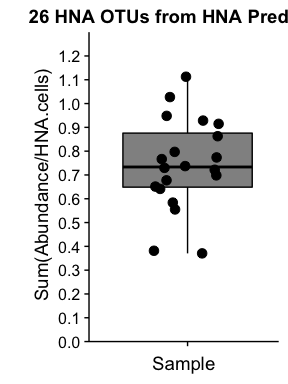
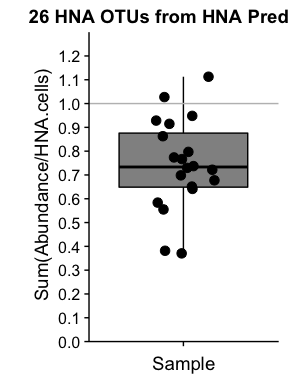
Trying to fix bug with calculations but to no avail

diff --git a/Final/OutliersRemoved/OTU_analysis.md b/Final/OutliersRemoved/OTU_analysis.md
@@ -2,9 +2,9 @@
 -   [Load in the data](#load-in-the-data)
 -   [Based on 1):](#based-on-1)
 -   [Proportion of HNA Pool?](#proportion-of-hna-pool)
-    -   [WHAT PROPORTION OF THE HNA POOL IS MADE UP BY THE 26 OTUs?](#what-proportion-of-the-hna-pool-is-made-up-by-the-26-otus)
+    -   [What proportion of the HNA pool is taken up by the 26 OTUs?](#what-proportion-of-the-hna-pool-is-taken-up-by-the-26-otus)
 -   [Sum OTUs vs HNA](#sum-otus-vs-hna)
--   [Regressions with the 3 OTUs pulled out in both analyses](#regressions-with-the-3-otus-pulled-out-in-both-analyses)
+-   [Linear Regressions with the 3 OTUs pulled out in both analyses](#linear-regressions-with-the-3-otus-pulled-out-in-both-analyses)
 
 ### Load the necessary libraries and set colors
 
@@ -72,15 +72,14 @@ Based on 1):
 
 ``` r
 # Vector of 3 OTUs pulled out by Peter's model in the above file 
-OTUs_26 <- read.csv("HNAscores_prod_outliersremoved_abun0.0075_Thr0.63.csv", header = FALSE) %>%
-  dplyr::rename(OTU = V1,
-                Corr = V2)
+OTUs_26 <- read.csv("HNAscores_prod_outliersremoved_abun0.0075_Thr0.63.csv", header = FALSE) %>%   # Gather the 26 OTUs that peter pulled out in his analysis 
+  dplyr::rename(OTU = V1, Corr = V2)                                                               # Rename columns to be more intuitive
 
+# Make a vector of OTU names to pull them out of the larger dataset
 otu_names_26 <- as.character(OTUs_26$OTU)
 
 # What is the taxonomy of these 3 OTUs?
-tax %>%
-  dplyr::filter(OTU %in% otu_names_26)
+tax %>% dplyr::filter(OTU %in% otu_names_26)
 ```
 
     ##          OTU  Kingdom                      Phylum                        Class                        Order                       Family                        Genus      Species
@@ -113,27 +112,25 @@ tax %>%
 
 ``` r
 # Put all the data together into one dataframe with only the important OTUs
-AbsAbund_OTUs_26 <-  absolute_otu %>%
-  dplyr::select(one_of(otu_names_26)) %>%     ### Use only 26 OTUs
-  tibble::rownames_to_column() %>%
-  dplyr::rename(Sample_16S = rowname) %>%  
-  dplyr::left_join(productivity, by = "Sample_16S") %>%
-  dplyr::filter(Lake == "Muskegon" & Depth == "Surface") %>%
-  dplyr::select(-c(Platform, samples, Lake)) %>%
-  mutate(Site = factor(Site, levels = c("MOT", "MDP", "MBR", "MIN"))) %>%
-  gather("OTU", "Abs_Abund", 2:27) %>%     #### Gather only columns 2:12
-  dplyr::left_join(tax, by = "OTU") %>%
-  filter(!is.na(Sample_16S)) %>%
-  mutate(OTU_fraction_HNA = Abs_Abund/HNA.cells,
-         OTU = factor(OTU, levels = OTU[order(Phylum)])) %>%
-  dplyr::filter(tot_bacprod < 90) # REMOVE OUTLIERS TO MATCH PETER'S ANALYSIS
+AbsAbund_OTUs_26 <-  absolute_otu %>%                                            # Start with the OTU table with absolute abundance counts 
+  dplyr::select(one_of(otu_names_26)) %>%                                        # Pull out only the relevant 26 OTUs from the above OTU table
+  tibble::rownames_to_column() %>%                                               # Change the sample names to be a column
+  dplyr::rename(Sample_16S = rowname) %>%                                        # Rename the sample names column to match up with other data frames
+  dplyr::left_join(productivity, by = "Sample_16S") %>%                          # Join 26 OTU absolute abundance counts with rest of metadata 
+  dplyr::filter(Lake == "Muskegon" & Depth == "Surface") %>%                     # Filter out samples that have productivity data (Muskegon & Surface)
+  dplyr::select(-c(Platform, samples, Lake)) %>%                                 # Remove unnecessary columns 
+  mutate(Site = factor(Site, levels = c("MOT", "MDP", "MBR", "MIN"))) %>%        # Fix order of factor for lake station
+  gather("OTU", "Abs_Abund", 2:27) %>%                                           # Gather only columns 2:27, which represent OTU abs abundance counts, and put it in *long* format
+  dplyr::left_join(tax, by = "OTU") %>%                                          # Add the taxonomic information for each OTU
+  mutate(OTU_fraction_HNA = Abs_Abund/HNA.cells,                                 # Calculate the fraction that each individual OTU takes up within the HNA pool for each sample
+         OTU = factor(OTU, levels = OTU[order(Phylum)])) %>%                     # Order the OTU by Phylum (alphabetical)
+  dplyr::filter(tot_bacprod < 90)                                                # Remove outliers to match peter's analysis
 
 
-# Plot the absolute abundance data 
+# Plot the absolute abundance data for each OTU
 ggplot(AbsAbund_OTUs_26, aes(x = reorder(OTU, Phylum), y = Abs_Abund, fill = Phylum, color = Phylum)) +
   geom_boxplot(alpha = 0.5, outlier.shape = NA) +
   geom_jitter(width = 0.2, size = 3) +
-  #scale_y_continuous(expand = c(0,0), limits = c(0, 2.5e+5)) +
   scale_color_manual(values = colors) +
   scale_fill_manual(values = colors) +
   ylab("log10(Abundance)") +
@@ -150,10 +147,10 @@ ggplot(AbsAbund_OTUs_26, aes(x = reorder(OTU, Phylum), y = Abs_Abund, fill = Phy
 <img src="OTU_analysis_files/figure-markdown_github/HNAotus-26-1.png" style="display: block; margin: auto;" />
 
 ``` r
+# Plot the fraction of the HNA pool for each OTU
 ggplot(AbsAbund_OTUs_26, aes(x = reorder(OTU, Phylum), y = OTU_fraction_HNA, fill = Phylum, color = Phylum)) +
   geom_boxplot(alpha = 0.5, outlier.shape = NA) +
   geom_jitter(width = 0.2, size = 3) +
-  #scale_y_continuous(expand = c(0,0), limits = c(0, 2.5e+5)) +
   scale_color_manual(values = colors) +
   scale_fill_manual(values = colors) +
   ylab("Fraction of HNA Cells") +
@@ -172,27 +169,29 @@ ggplot(AbsAbund_OTUs_26, aes(x = reorder(OTU, Phylum), y = OTU_fraction_HNA, fil
 Proportion of HNA Pool?
 =======================
 
-### WHAT PROPORTION OF THE HNA POOL IS MADE UP BY THE 26 OTUs?
+### What proportion of the HNA pool is taken up by the 26 OTUs?
 
 ``` r
 # Calculate the sum of the HNA pool, the max of the HNA pool, and the median/mean
-frac_HNA_stats_AbsAbund_OTUs_26 <- AbsAbund_OTUs_26 %>%
-  dplyr::select(Sample_16S, OTU, OTU_fraction_HNA, Abs_Abund, HNA.cells) %>%
-  group_by(Sample_16S) %>%
-  summarise(sum_fracHNA = sum(OTU_fraction_HNA), 
-            max_fracHNA = max(OTU_fraction_HNA), 
-            median_fracHNA = median(OTU_fraction_HNA), 
-            mean_fracHNA = mean(OTU_fraction_HNA),
-            sum_abs_abund = sum(Abs_Abund)) %>%
-  mutate(All_Samples = "AllSamps")
+frac_HNA_stats_AbsAbund_OTUs_26 <- AbsAbund_OTUs_26 %>%                        # Take the dataframe from above
+  dplyr::select(Sample_16S, OTU, OTU_fraction_HNA, Abs_Abund, HNA.cells) %>%   # Select only relevant columns
+  group_by(Sample_16S) %>%                                                     # Make a data frame for each of the individual samples
+  summarise(sum_fracHNA = sum(OTU_fraction_HNA),                               # Calculate the sum of the fraction of each OTU from the HNA pool (total HNA pool represented by each OTU)
+            max_fracHNA = max(OTU_fraction_HNA),                               # Calculate the max the the line above
+            median_fracHNA = median(OTU_fraction_HNA),                         # Calculate the median of 2 lines above
+            mean_fracHNA = mean(OTU_fraction_HNA),                             # Calculate the mean of 3 lines above
+            sum_abs_abund = sum(Abs_Abund)) %>%                                # What's the sum of the absolute abundance of the 26 OTUs within each sample? 
+  mutate(All_Samples = "AllSamps_26_OTUs")
 
-# Plot it
+
+# Plot the variation in the sum of the HNA fraction with points/boxplot
 ggplot(frac_HNA_stats_AbsAbund_OTUs_26, aes(y = sum_fracHNA, x = All_Samples, 
                                             color = "All_Samples", fill = "All_Samples")) +
   geom_boxplot(alpha = 0.5) +   geom_point(size = 3, position = position_jitterdodge()) +
   ggtitle("26 HNA OTUs from HNA Prediction") + 
   xlab("All Samples") + scale_color_manual(values = "black") +
   scale_fill_manual(values = "black") +
+  geom_abline(intercept = 1, slope = 0, color = "grey") +                                   # Draw a line at 1 
   scale_y_continuous(expand = c(0,0),limits = c(0, 1.3), 
                      breaks = seq(0, 1.2, by = 0.1)) +
   ylab("\n Sum(Abundance/HNA.cells)") + xlab("Sample") +
@@ -205,49 +204,22 @@ Sum OTUs vs HNA
 ===============
 
 ``` r
-all_data <- inner_join(frac_HNA_stats_AbsAbund_OTUs_26, productivity, by = "Sample_16S") %>%
-  mutate(pred_totHNA_counts = sum_fracHNA*HNA.cells)
-  
+all_data <- inner_join(frac_HNA_stats_AbsAbund_OTUs_26, productivity, by = "Sample_16S") %>%    # Combine calculated stats above with rest of metadata
+  dplyr::select(-c(Platform, All_Samples, samples, Lake, Fraction, Depth)) %>%                  # Remove futile columns
+  mutate(pred_totHNA_counts = sum_fracHNA*HNA.cells)                                            # Sanity Check:  Back calculate the number of HNA cells 
 
-dplyr::select(all_data, Sample_16S, HNA.cells, pred_totHNA_counts, sum_fracHNA)
-```
-
-    ## # A tibble: 20 × 4
-    ##    Sample_16S HNA.cells pred_totHNA_counts sum_fracHNA
-    ##         <chr>     <dbl>              <dbl>       <dbl>
-    ## 1   MBRE1F714   2724102          3031219.8   1.1127408
-    ## 2   MBRE1F715   1343202          1379725.9   1.0271919
-    ## 3   MBRE1F914   1928397          1236911.0   0.6414193
-    ## 4   MBRE2F515   1739097          1015380.1   0.5838549
-    ## 5   MBRE2F915   1264624          1007841.0   0.7969492
-    ## 6   MDPE1F514   2396948           888109.8   0.3705170
-    ## 7   MDPE1F714   3007826          2595225.1   0.8628243
-    ## 8   MDPE1F715   1721379          1598269.7   0.9284823
-    ## 9   MDPE1F914   2059672          1503100.9   0.7297768
-    ## 10  MDPE2F515   2155515          1555922.5   0.7218335
-    ## 11  MDPE2F915   1349635          1279776.0   0.9482383
-    ## 12  MINE1F715   2913854          1973889.3   0.6774154
-    ## 13  MINE1F914   3360732          1865603.8   0.5551183
-    ## 14  MINE2F915   2312989          1705201.3   0.7372286
-    ## 15  MOTE1F514   2396939           914463.8   0.3815132
-    ## 16  MOTE1F714   3336428          2557913.1   0.7666621
-    ## 17  MOTE1F715   1692624          1309430.2   0.7736098
-    ## 18  MOTE1F914   1981122          1383486.4   0.6983348
-    ## 19  MOTE2F515   2251854          1466453.3   0.6512205
-    ## 20  MOTE2F915   1401867          1282401.3   0.9147807
-
-``` r
+# Plot the correlation between the HNA counts from the flow cytometer and the sum of the counts from the 26 OTUs
 ggplot(all_data, aes(x = sum_abs_abund, y= HNA.cells)) +
   geom_point(size = 3) + ylab("HNA Cell Count") + 
   xlab("Sum(Abs_Abund of 26 OTUs)") + 
-  geom_abline(intercept = 0, slope = 1) +
+  geom_abline(intercept = 0, slope = 1) +                                   # Draw a 1:1 line 
   theme(axis.text.x = element_text(angle = 30, hjust = 1, vjust = 1))
 ```
 
 <img src="OTU_analysis_files/figure-markdown_github/pred-HNA-1.png" style="display: block; margin: auto;" />
 
-Regressions with the 3 OTUs pulled out in both analyses
-=======================================================
+Linear Regressions with the 3 OTUs pulled out in both analyses
+==============================================================
 
 ``` r
 plot_OTU25 <- ggplot(dplyr::filter(AbsAbund_OTUs_26, OTU == "Otu000025"), 
